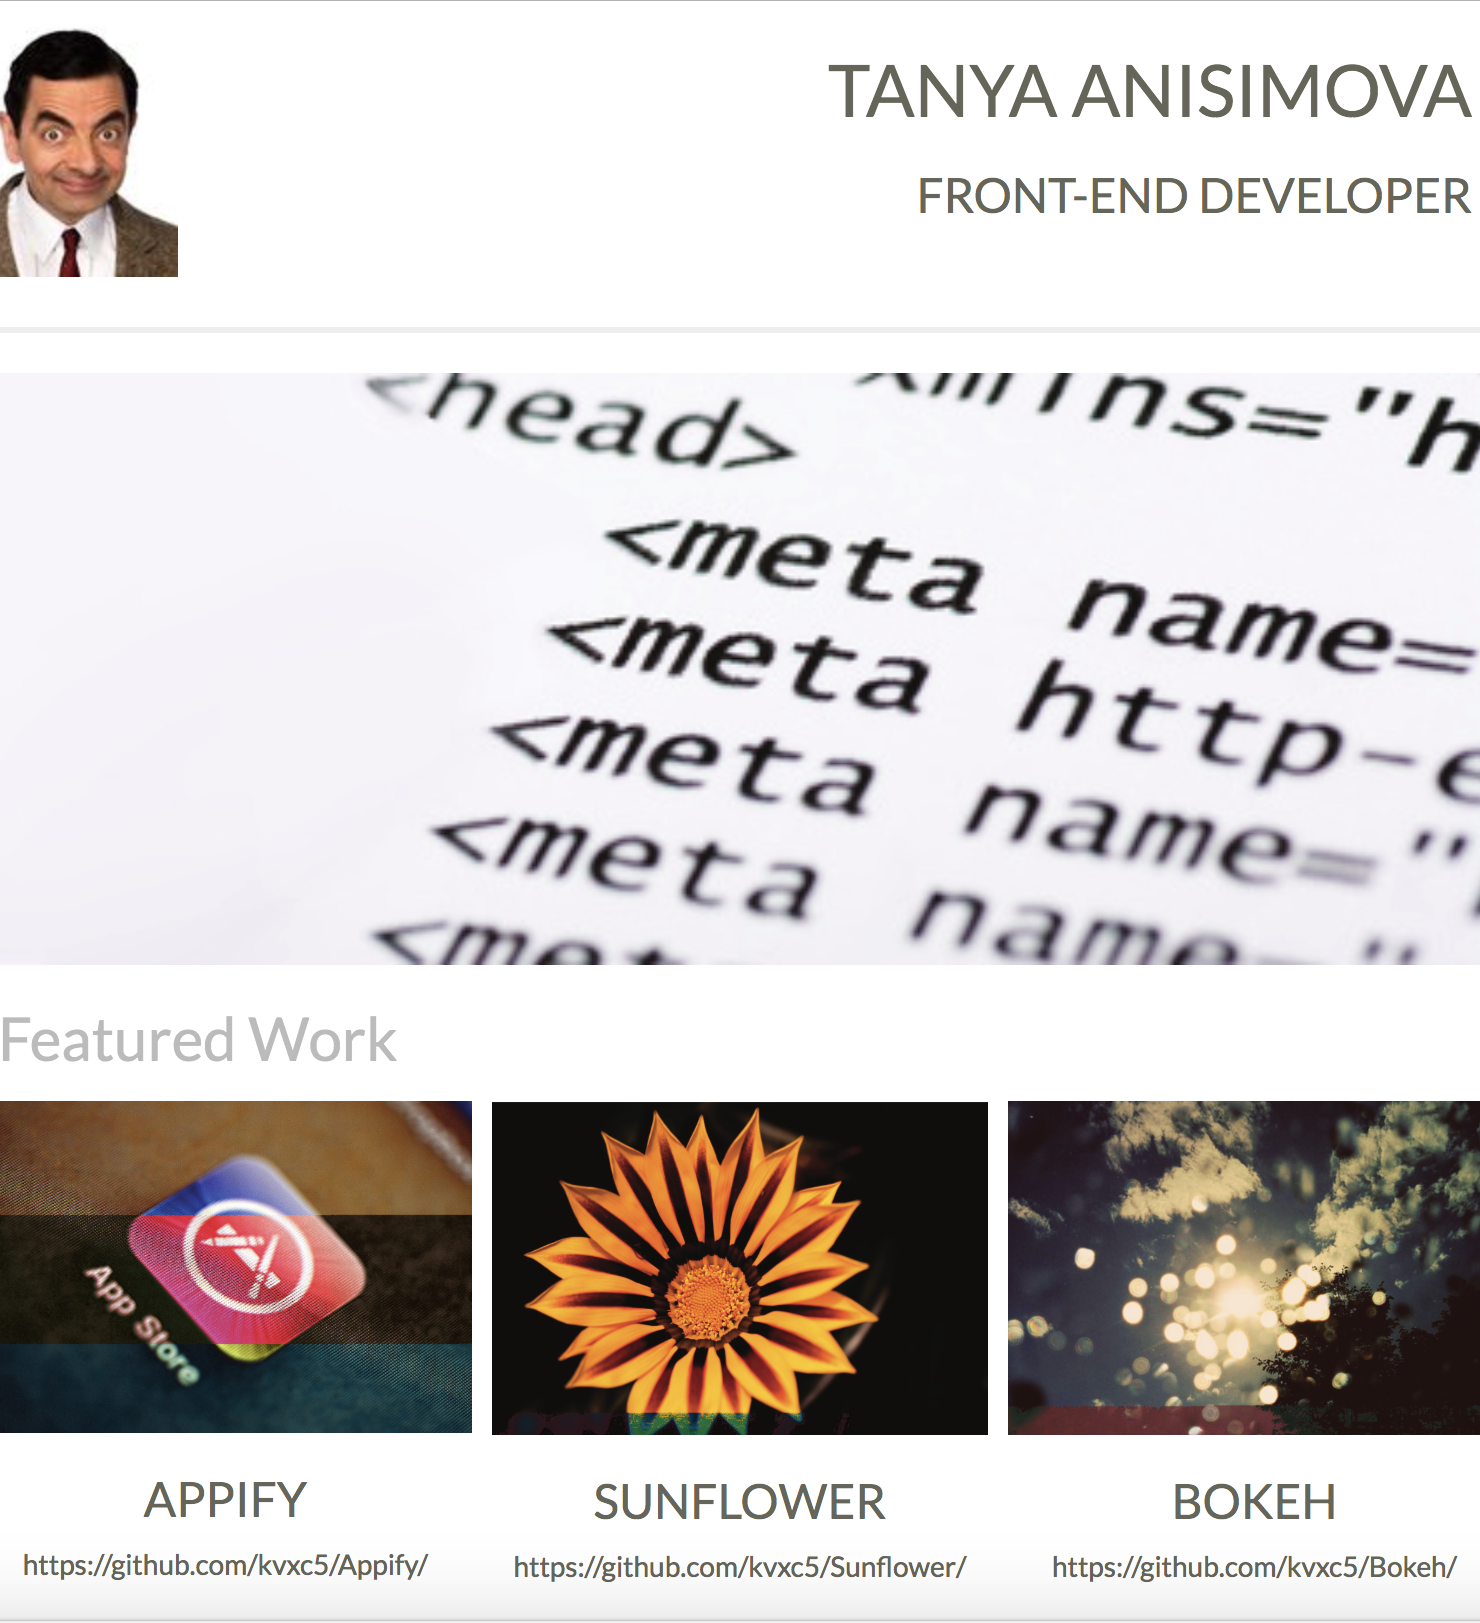
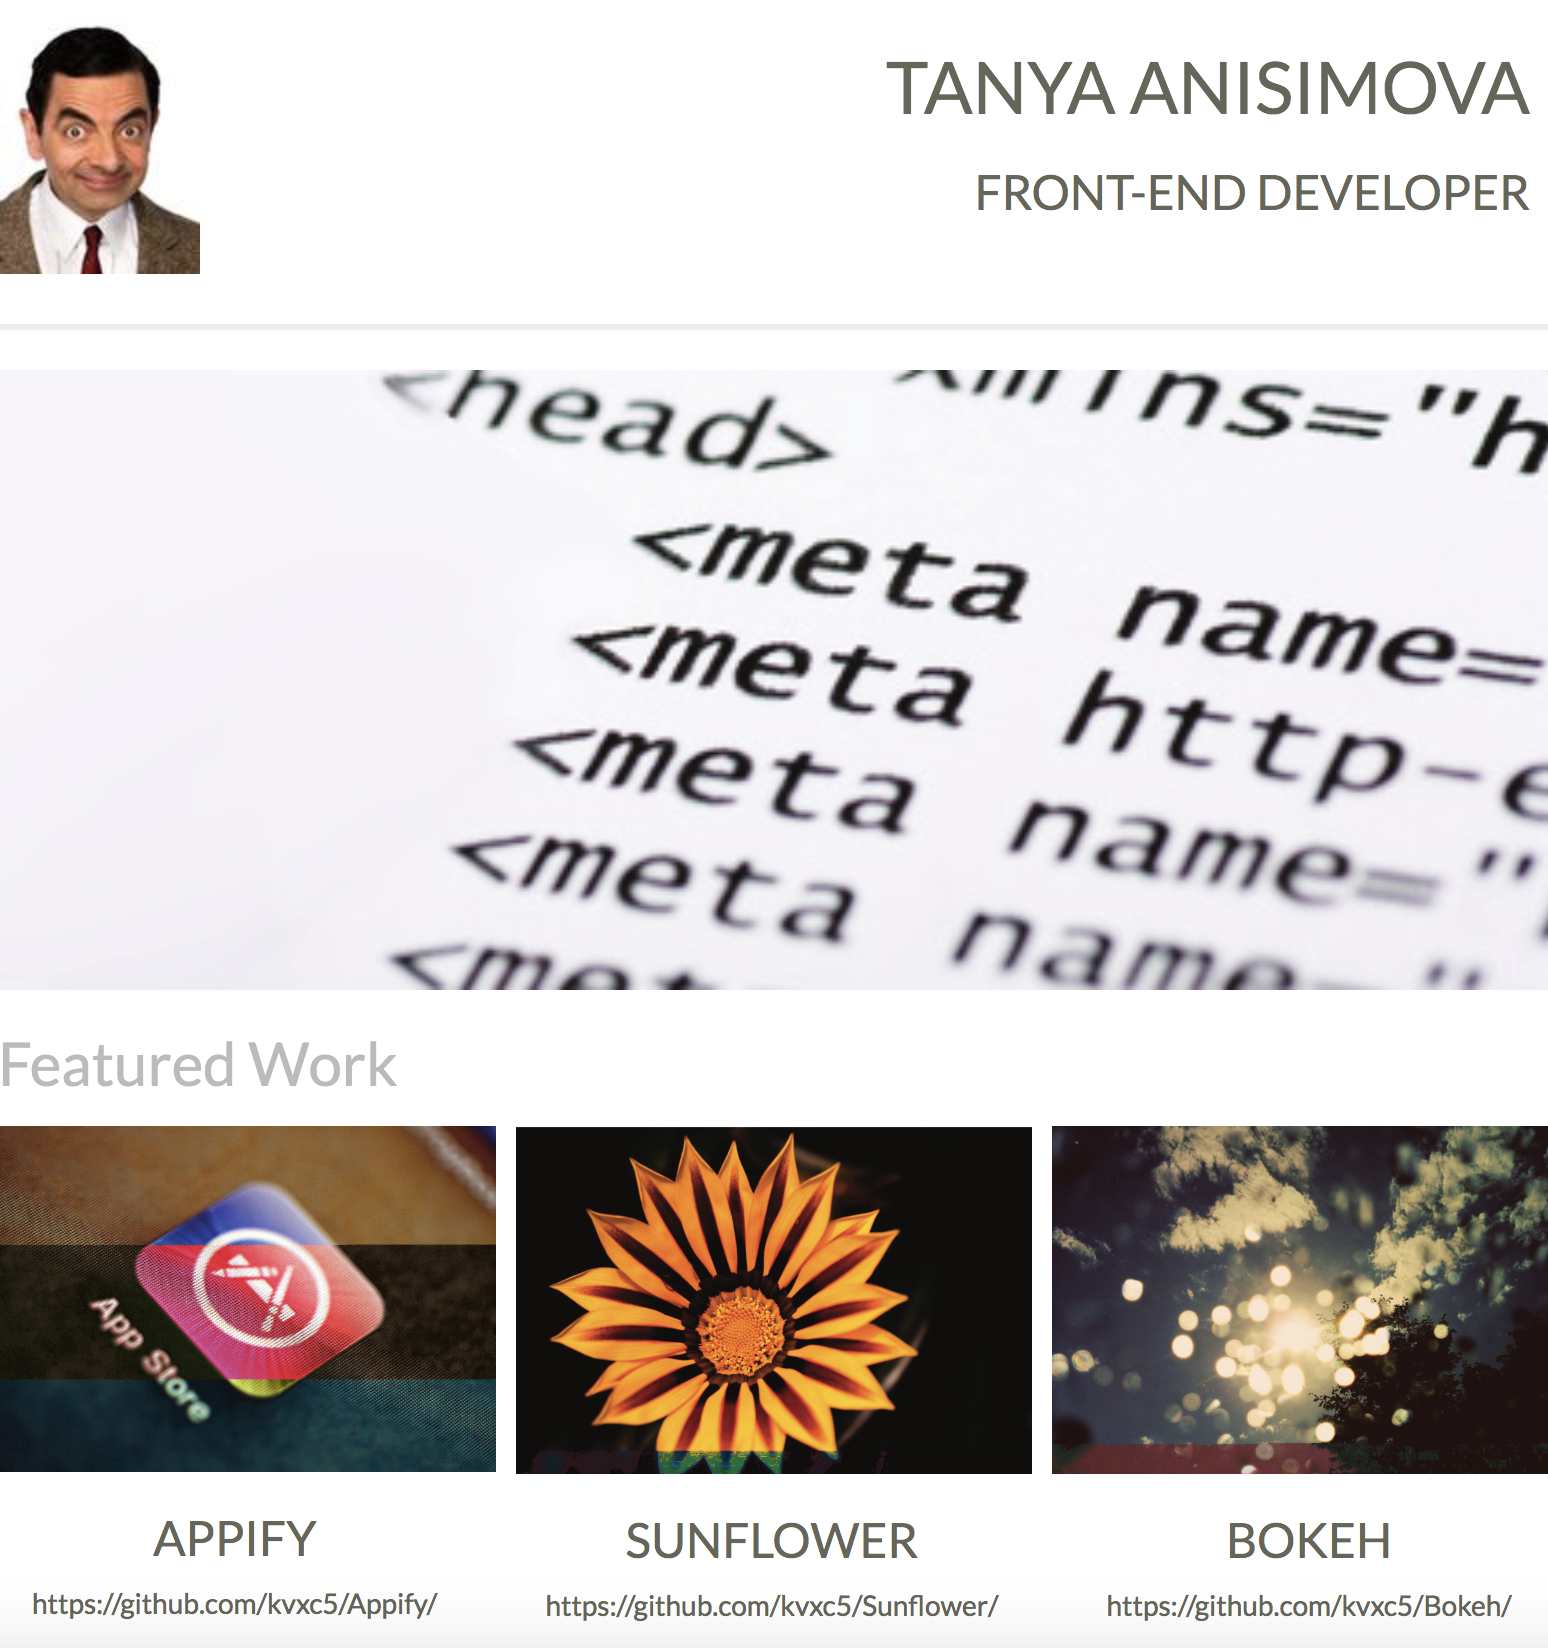
Documentation

diff --git a/ICP 2/source/rwd/input.html b/ICP 2/source/rwd/input.html
@@ -23,6 +23,8 @@
         }
 
         .text {
+            padding-left: 13px;
+            padding-right: 15px;
             text-align: center;
             overflow: hidden;
         }
@@ -33,12 +35,6 @@
             padding: 5px;
         }
 
-        .row::after {
-            content: "";
-            clear: both;
-            display: table;
-        }
-
         hr {
             display: block;
             border-width: 3px;
@@ -47,46 +43,47 @@
 
     </style>
 </head>
-<body>
-<div class="row">
-    <div class="column" style="width: 20%;">
-        <img src="images/bean.jpg" alt="Mr. Bean">
-    </div>
-    <div class="column" style="width: 80%; text-align: right; padding-right: 25px;">
-        <h1>Tanya Anisimova</h1>
-        <h3>Front-End Developer</h3>
-    </div>
-</div>
-<hr>
 
-<div>
-    <img src="images/Image.png" alt="HTML" style="width: 100%;">
-</div>
-<div>
-    <h2>Featured Work </h2>
-</div>
-<div class="row">
-    <div class="column">
-        <img src="images/app1.png" alt="Appify" style="width: 100%;">
-        <div class="text">
-            <h3>Appify</h3>
-            <p><a href="#">https://github.com/kvxc5/Appify/</a></p>
-        </div>
-    </div>
-    <div class="column">
-        <img src="images/app2.png" alt="Sunflower" style="width: 100%;">
-        <div class="text">
-            <h3>Sunflower</h3>
-            <p><a href="#">https://github.com/kvxc5/Sunflower/</a></p>
-        </div>
-    </div>
-    <div class="column">
-        <img src="images/app3.png" alt="Bokeh" style="width: 100%;">
-        <div class="text">
-            <h3>Bokeh</h3>
-            <p><a href="#">https://github.com/kvxc5/Bokeh/</a></p>
-        </div>
-    </div>
-</div>
+<body>
+  <div class="row">
+      <div class="column" style="width: 20%; padding-left: 15px;">
+          <img src="images/bean.jpg" alt="Mr. Bean">
+      </div>
+      <div class="column" style="width: 80%; text-align: right; padding-right: 25px;">
+          <h1>Tanya Anisimova</h1>
+          <h3>Front-End Developer</h3>
+      </div>
+  </div>
+  <hr>
+
+  <div>
+      <img src="images/Image.png" alt="HTML" style="width: 100%;">
+  </div>
+  <div>
+      <h2>Featured Work </h2>
+  </div>
+  <div class="row">
+      <div class="column">
+          <img src="images/app1.png" alt="Appify" style="width: 100%;">
+          <div class="text">
+              <h3>Appify</h3>
+              <p><a href="#">https://github.com/kvxc5/Appify/</a></p>
+          </div>
+      </div>
+      <div class="column">
+          <img src="images/app2.png" alt="Sunflower" style="width: 100%;">
+          <div class="text">
+              <h3>Sunflower</h3>
+              <p><a href="#">https://github.com/kvxc5/Sunflower/</a></p>
+          </div>
+      </div>
+      <div class="column">
+          <img src="images/app3.png" alt="Bokeh" style="width: 100%;">
+          <div class="text">
+              <h3>Bokeh</h3>
+              <p><a href="#">https://github.com/kvxc5/Bokeh/</a></p>
+          </div>
+      </div>
+  </div>
 </body>
 </html>

diff --git a/ICP 2/source/calculator/index.css b/ICP 2/source/calculator/index.css
@@ -1,105 +1,50 @@
-body{
-  font-family:'Nothing You Could Do', cursive;
-}
-
-* {
-  box-sizing: border-box;
-  margin:0;
-  padding:0;
-}
-
-.row::after {content: "";clear: both; display: table;}
-[class*="col-"] {float: left;padding: 15px;}
-.col-1 {width: 8.33%;}
-.col-2 {width: 16.66%;}
-.col-3 {width: 25%;}
-.col-4 {width: 33.33%;}
-.col-5 {width: 41.66%;}
-.col-6 {width: 50%;}
-.col-7 {width: 58.33%;}
-.col-8 {width: 66.66%;}
-.col-9 {width: 75%;}
-.col-10 {width: 83.33%;}
-.col-11 {width: 91.66%;}
-.col-12 {width: 100%;}
-
-html {
-  font-family: "Lucida Sans", sans-serif; }
-  .header {
-  background-color: #9933cc;
-  color: #ffffff;
-  padding: 15px;
-}
-
-.menu ul {
-  list-style-type: none;
-  margin: 0;
-  padding: 0;
-}
-
-.menu li {
-  padding: 8px;
-  margin-bottom: 7px;
-  background-color: #33b5e5;
-  color: #ffffff;box-shadow: 0 1px 3px rgba(0,0,0,0.12), 0 1px 2px rgba(0,0,0,0.24);
-}
-
-.menu li:hover{
-  background-color: #0099cc;
+body {
+  font-family: 'Roboto Mono', monospace;
 }
 
 .calc {
-  width: 80%;
-  height: 300px;
-  max-width: 960px;
-  max-height: auto;
-
+  width: 90%;
+  height: 100%;
   background: #394867;
   margin-top:    5%;
   margin-bottom: 5%;
   margin-right:  5%;
   margin-left:   5%;
   padding: 0;
-  border-radius: 4px;
+  border-radius: 10px;
   box-shadow: 0 4px 10px rgba(0, 0, 0, 0.52), 0 4px 10px rgba(0, 0, 0, 0.54);
-  *zoom: 1;
+  font-size: 20px;
+  font-weight: 600;
 }
 
 .calc #logo {
   text-align: left;
   margin: 10px;
-  font-weight: 600;
   color: #eee;
+  padding-top: 10px;
 }
 
 .calc .screen {
-  width: 96%;
+  width: 95%;
   height: 13%;
-  min-height: 50px;
+  min-height: 60px;
   background: #c6b0c5;
-  margin: 10px auto;
+  margin: 0 2.5%;
   border-radius: 4px;
   box-shadow: 0 1px 3px rgba(0, 0, 0, 0.32), 0 1px 2px rgba(0, 0, 0, 0.34);
 }
 
 .calc .screen p {
-  font-size: 30px;
-  color: #555;
+  color: black;
   text-align: right;
   margin-right: 10px;
-}
-
-.calc .screen #equation {
-  font-size: auto;
-}
-
-.calc .screen #number {
-  font-size: auto;
+  margin-top: 0;
+  margin-bottom: 0;
 }
 
 .calc .buttons {
   width: 96%;
-  height: 400px;
+  height: 80%;
   margin: 10px auto;
   border-radius: 4px;
 }
@@ -108,15 +53,14 @@ html {
   background: #2d5b73;
   float: left;
   margin: 6px 9px;
-  height: auto;
-  min-width: 20px;
+  height: 80%;
+  min-width: 30px;
+  min-height: 30px;
+  padding: 5px;
   width: auto;
   box-shadow: 0 1px 3px rgba(0, 0, 0, 0.32), 0 1px 2px rgba(0, 0, 0, 0.34);
-  font-size: auto;
-  font-weight: 400;
   color: #f9f9f9;
   text-align: center;
-  padding-top: 8px;
 }
 
 .calc .buttons .button:hover {
@@ -125,14 +69,19 @@ html {
 }
 
 .calc .buttons .op {
-  margin-left: 25px;
+  background: #4389ad;
 }
 
 .calc .buttons .clear {
   float: none;
   clear: both;
-  width: 98%;
   margin: 0 auto;
+  background: #c6b0c5;
+  margin-top: 10px;
+  margin-bottom: 5px;
+  color: black;
+  margin-right: 8px;
+  margin-left: 8px;
 }
 
 .grid {

diff --git a/ICP 2/source/calculator/index.html b/ICP 2/source/calculator/index.html
@@ -9,7 +9,7 @@
   <meta name="viewport" content="width=device-width, initial-scale=1">
   <link rel="stylesheet" href="https://maxcdn.bootstrapcdn.com/bootstrap/3.3.7/css/bootstrap.min.css" integrity="sha384-BVYiiSIFeK1dGmJRAkycuHAHRg32OmUcww7on3RYdg4Va+PmSTsz/K68vbdEjh4u" crossorigin="anonymous">
   <link rel="stylesheet" type="text/css" href="index.css">
-  <link href="https://fonts.googleapis.com/css?family=Nothing+You+Could+Do&display=swap" rel="stylesheet">
+  <link href="https://fonts.googleapis.com/css?family=Roboto+Mono&display=swap" rel="stylesheet">
 </head>
 
 <body>
@@ -26,30 +26,28 @@
               <div class="button">7</div>
               <div class="button">8</div>
               <div class="button">9</div>
-              <div class="button">+</div>
+              <div class="button op">+</div>
 
               <div class="button">4</div>
               <div class="button">5</div>
               <div class="button">6</div>
-              <div class="button">-</div>
+              <div class="button op">-</div>
 
               <div class="button">1</div>
               <div class="button">2</div>
               <div class="button">3</div>
-              <div class="button">*</div>
+              <div class="button op">*</div>
 
               <div class="button">0</div>
-              <div class="button">/</div>
-              <div class="button">%</div>
-              <div class="button">=</div>
+              <div class="button op">/</div>
+              <div class="button op">%</div>
+              <div class="button op">=</div>
            </div>
 
-
-          <div class="button clear">Clear</div>
+          <div class="button clear">CLEAR</div>
         </div>
       </div>
     </div>
-  </div>
   </div>
   <script src="script.js"></script>
 </body>
